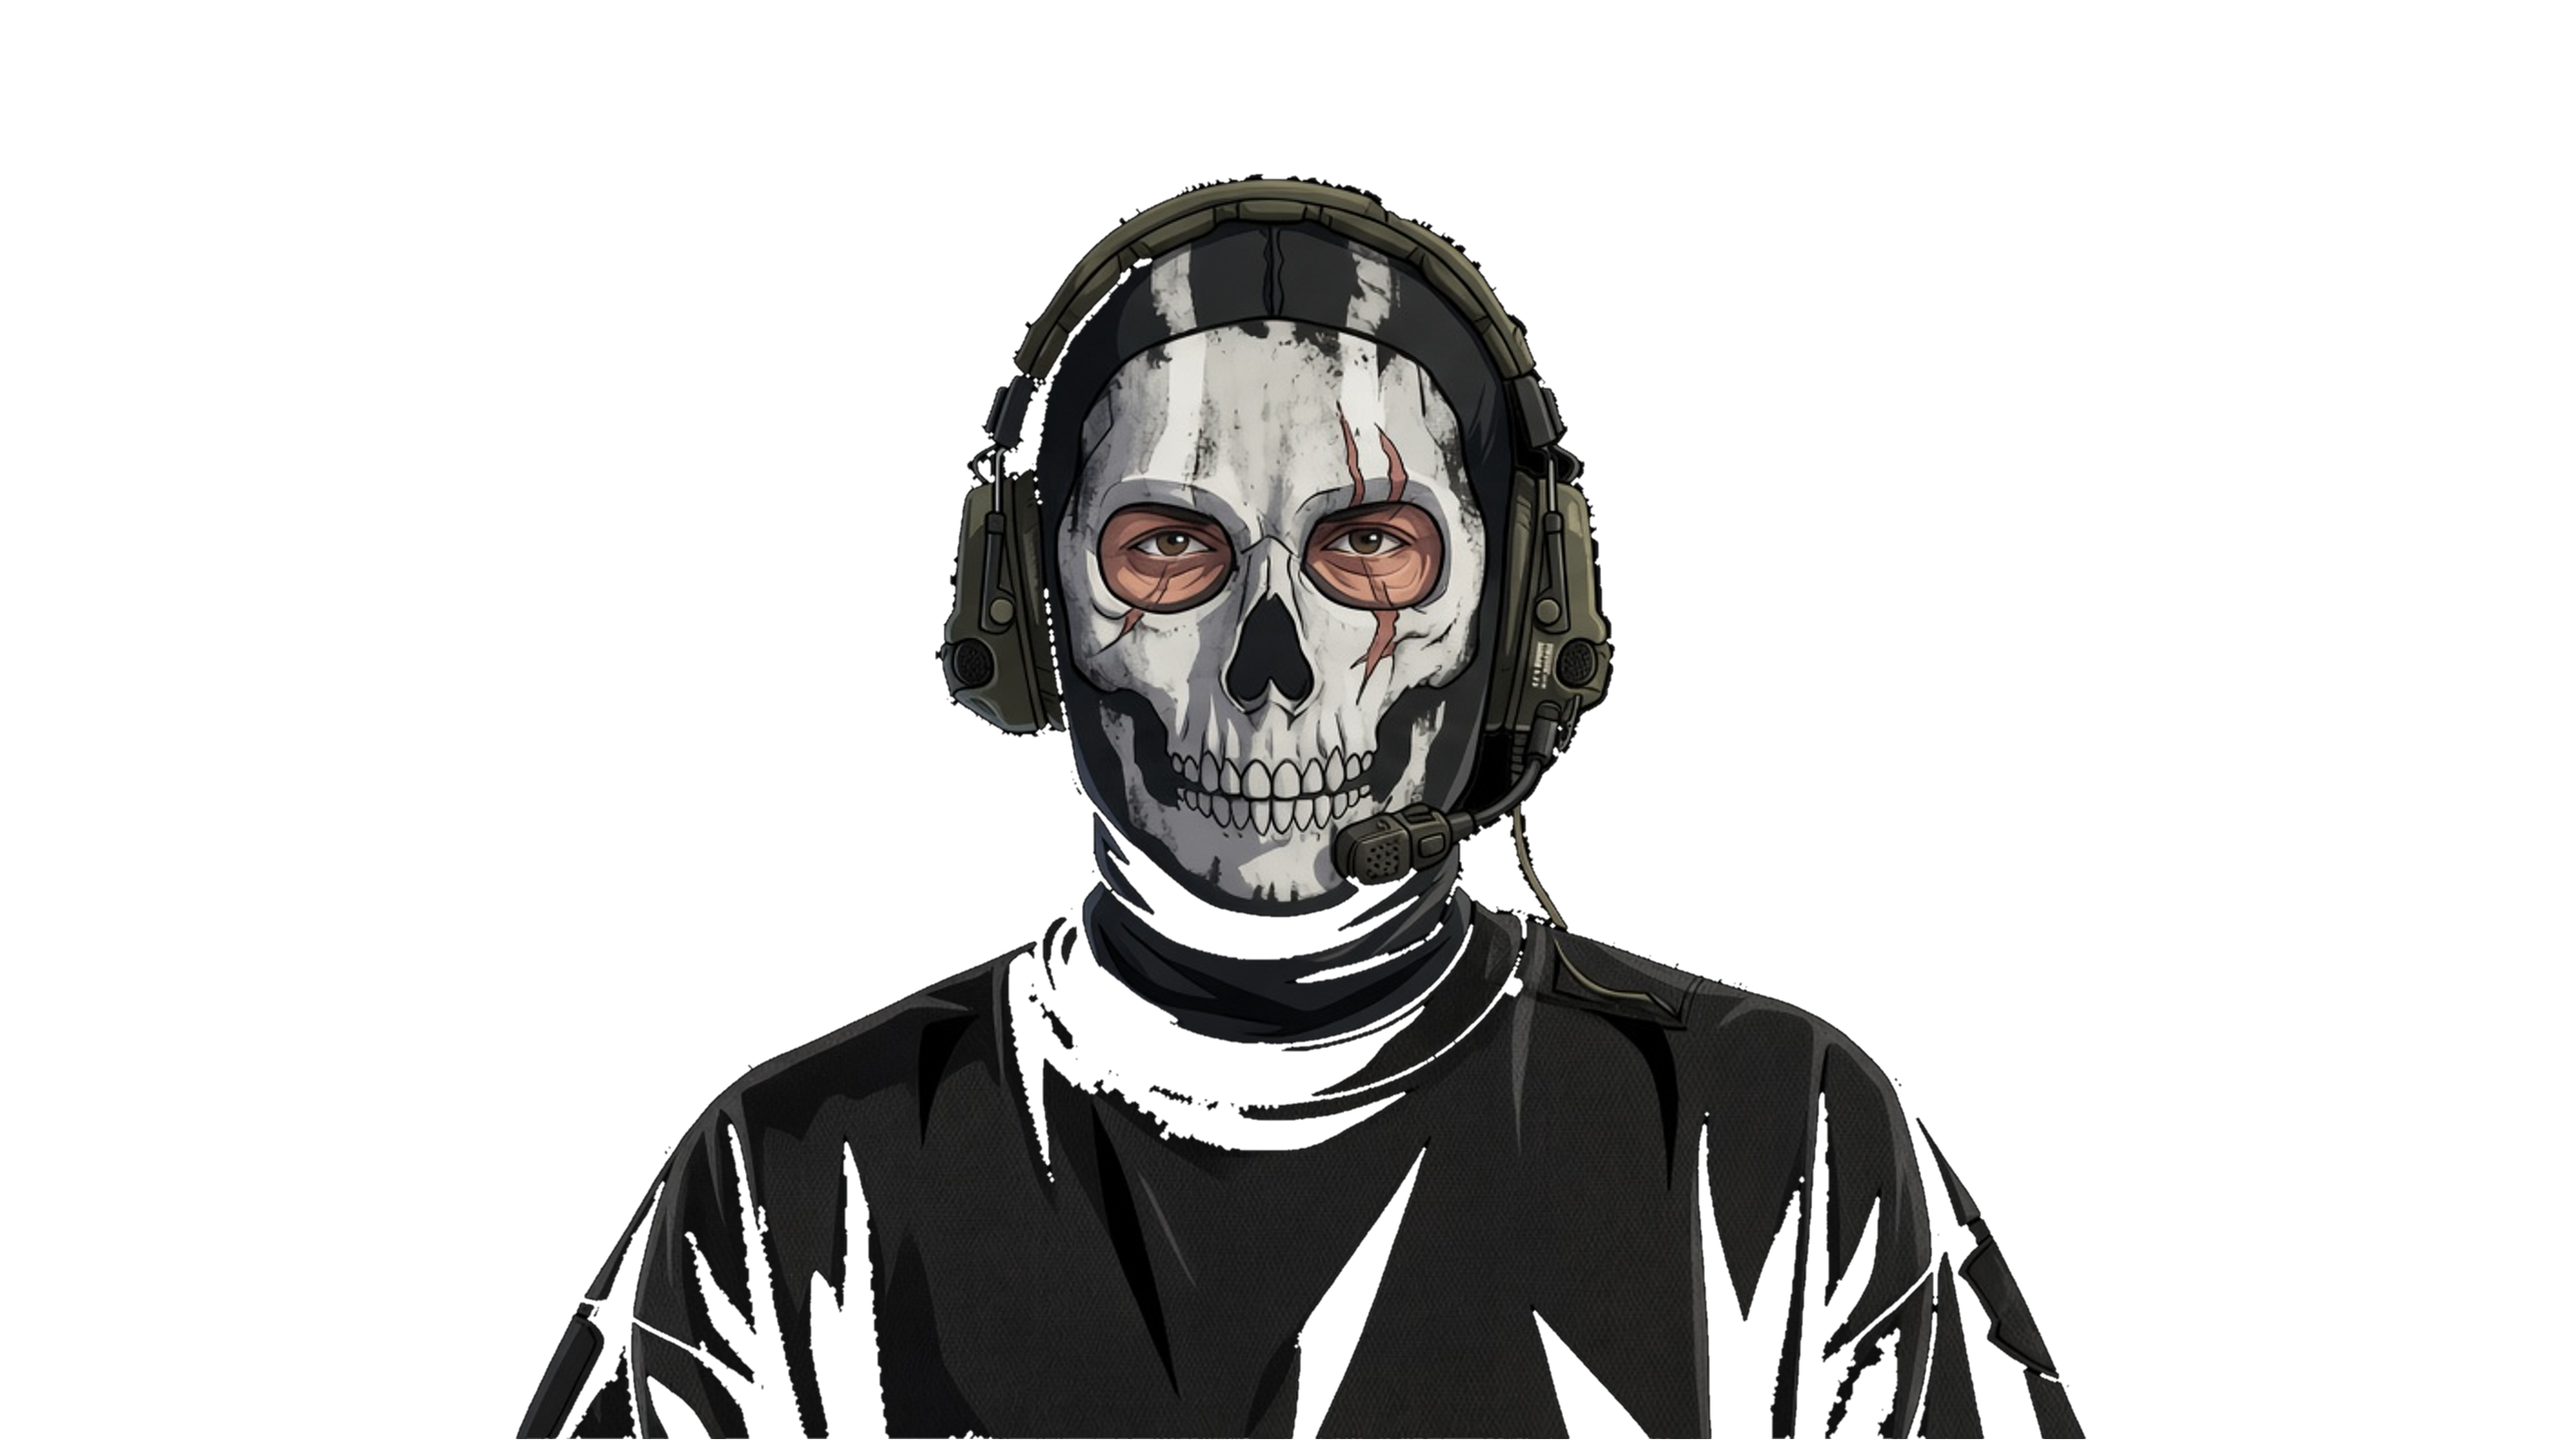
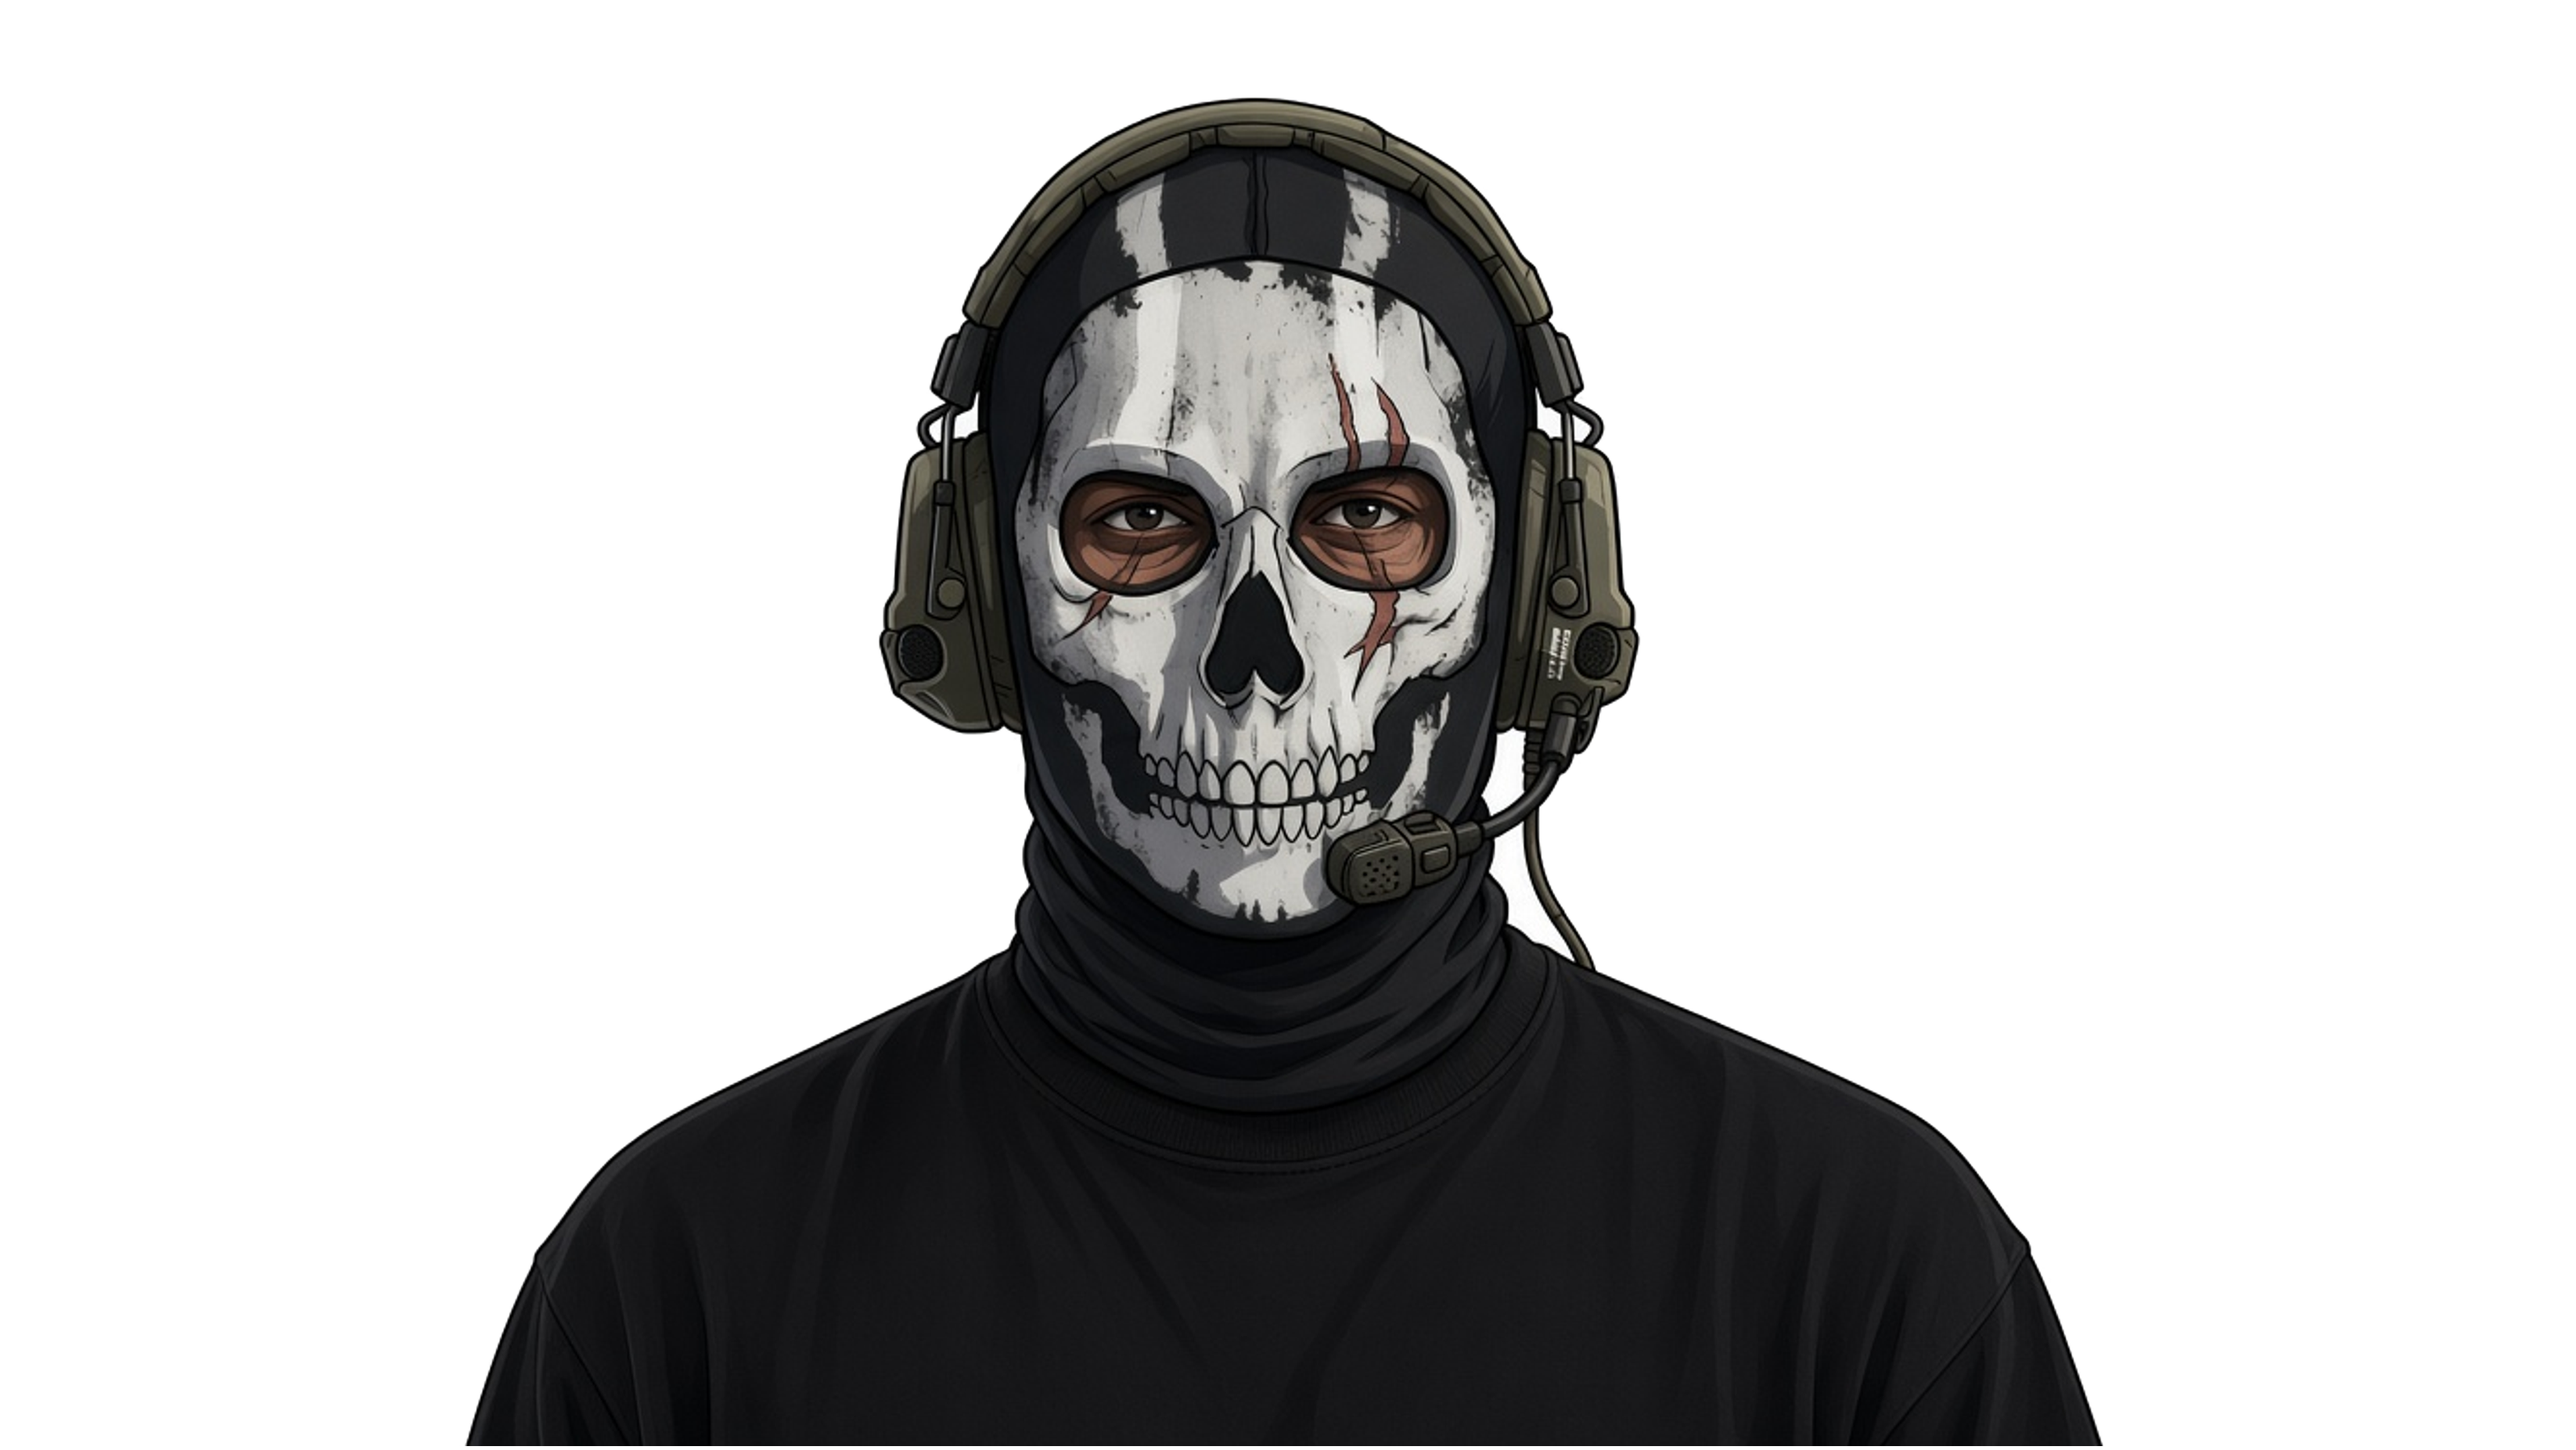
updated

Changed region(s): [[0.1549, 0.0615, 0.8366, 1.0], [0.4338, 0.8301, 0.4648, 0.8608]]

diff --git a/src/components/sections/hero-stage.tsx b/src/components/sections/hero-stage.tsx
@@ -409,8 +409,8 @@ export function HeroStage() {
       >
         <HoverMaskReveal
           ref={maskRef}
-          frontImage="/assets/ratul-hero.png"
-          backImage="/assets/ratul-hero-mask.png"
+          frontImage="/assets/ratul-hero-v3.png"
+          backImage="/assets/ratul-hero-mask-v3.png"
           alt="Portrait of Ratul Saha Roy"
           className="h-full w-full"
           capturePointer={false}
